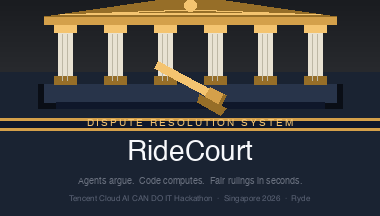
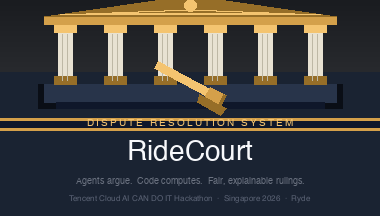
Cover: 'Fair, explainable rulings' instead of 'in seconds' (median 26.5 s in the evaluation)

Changed region(s): [[0.2026, 0.8056, 0.8105, 0.8611]]

diff --git a/scripts/make_cover.py b/scripts/make_cover.py
@@ -213,7 +213,7 @@ def render_cover(width: int = 1520, height: int = 864) -> Image.Image:
     tag_y = int(height * 0.82)
     _text_center(
         draw,
-        "Agents argue.  Code computes.  Fair rulings in seconds.",
+        "Agents argue.  Code computes.  Fair, explainable rulings.",
         cx, tag_y, tag_font, SLATE,
     )
 
